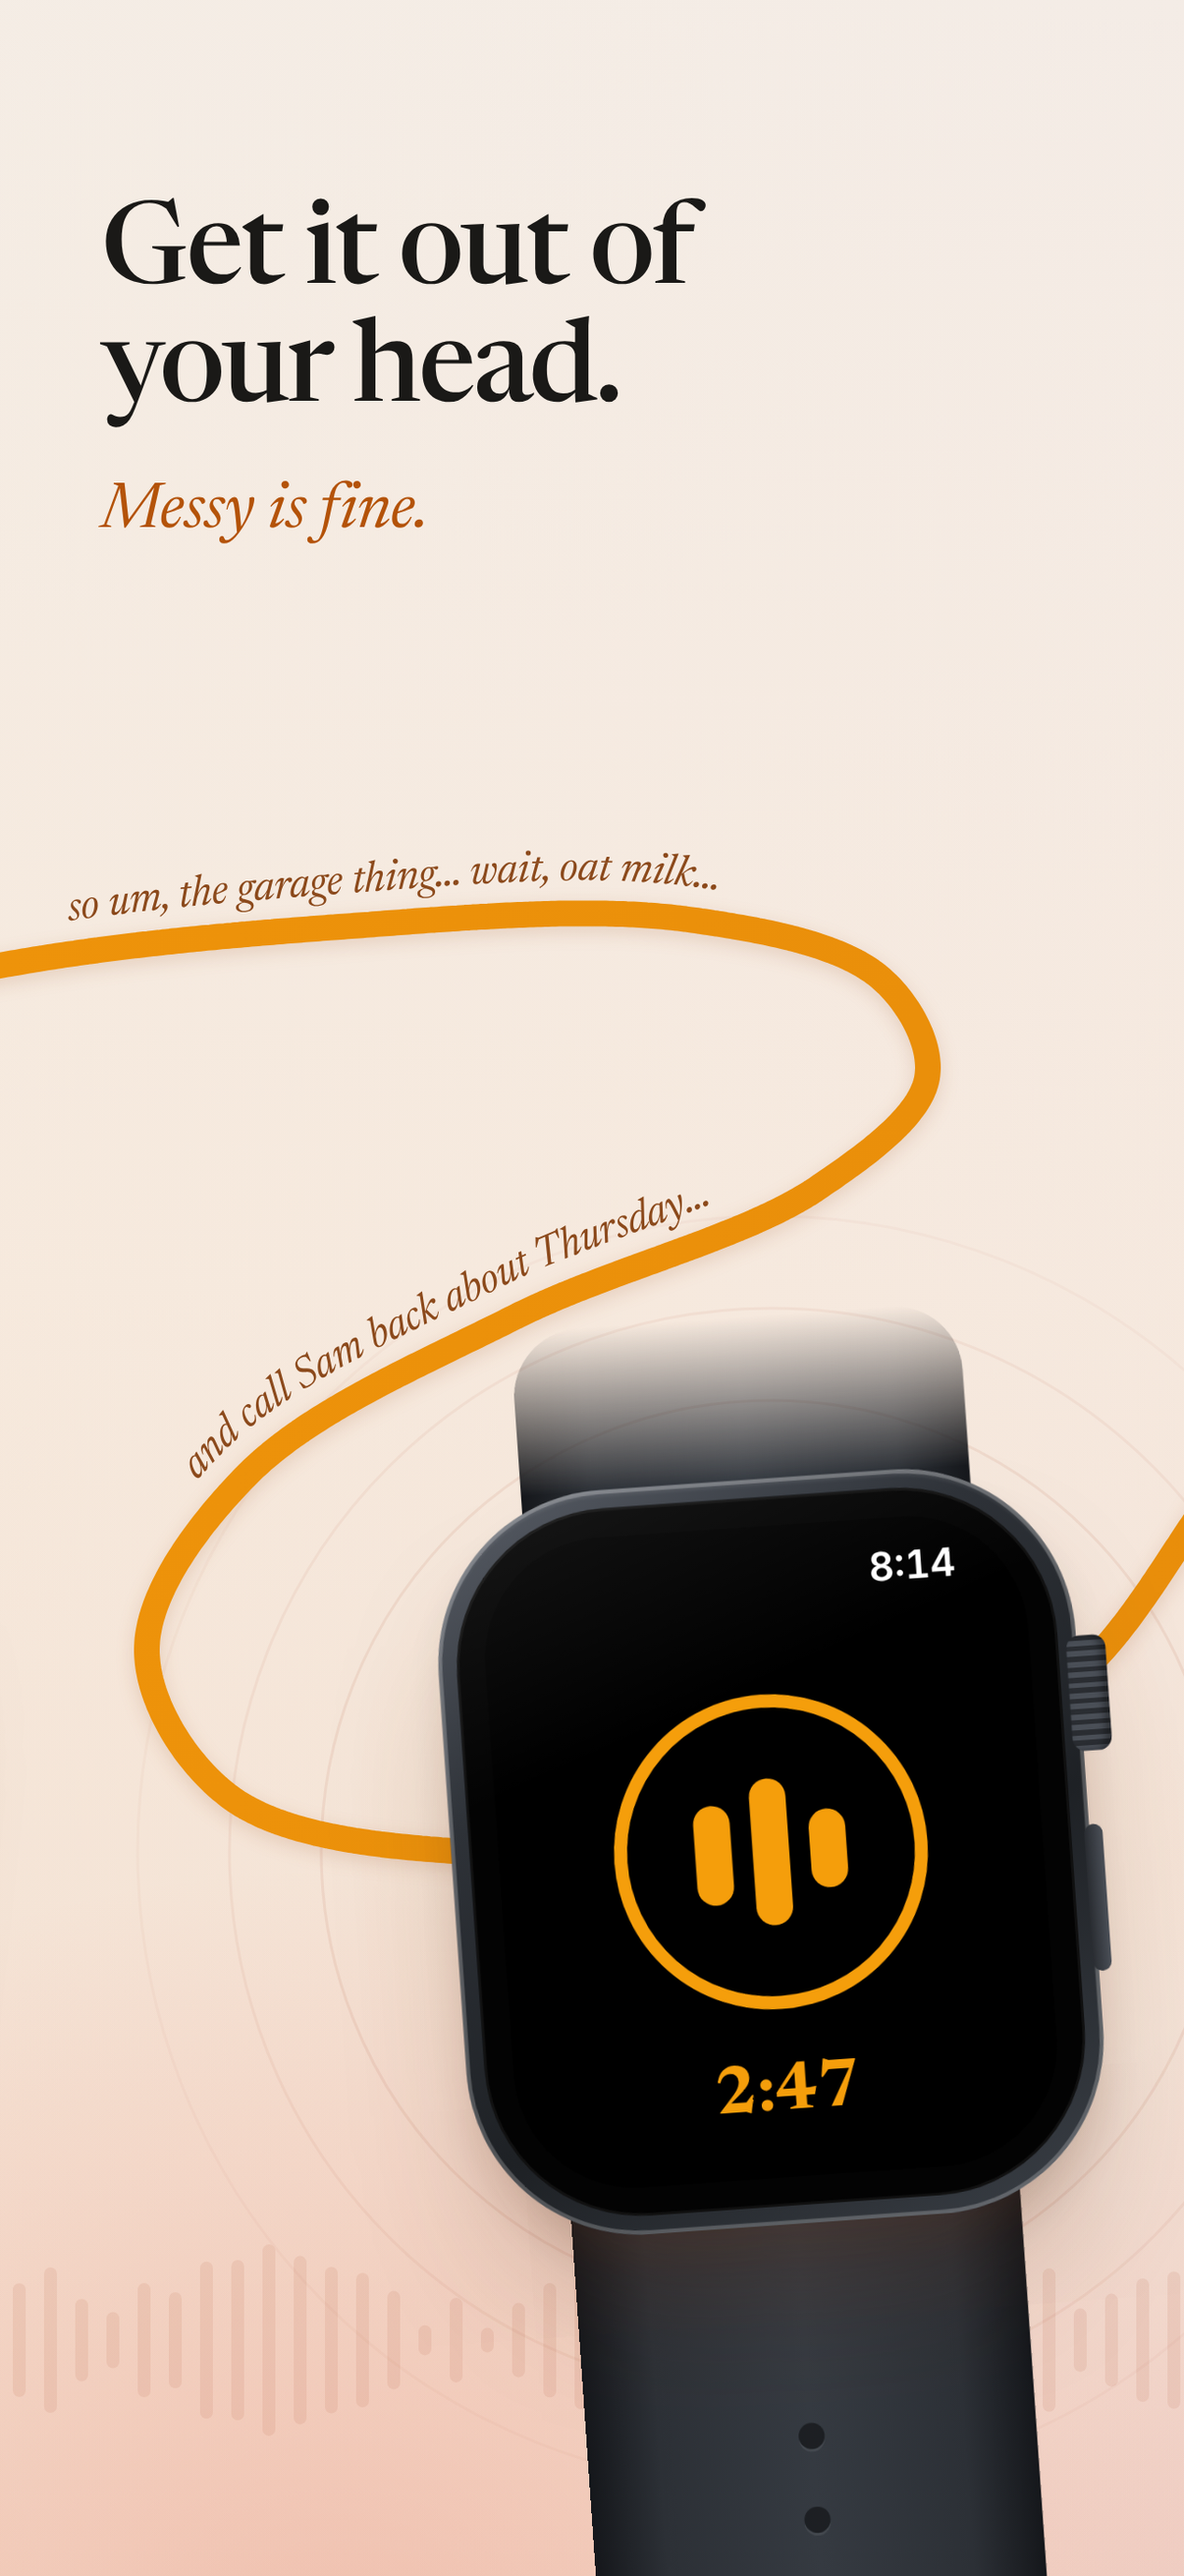
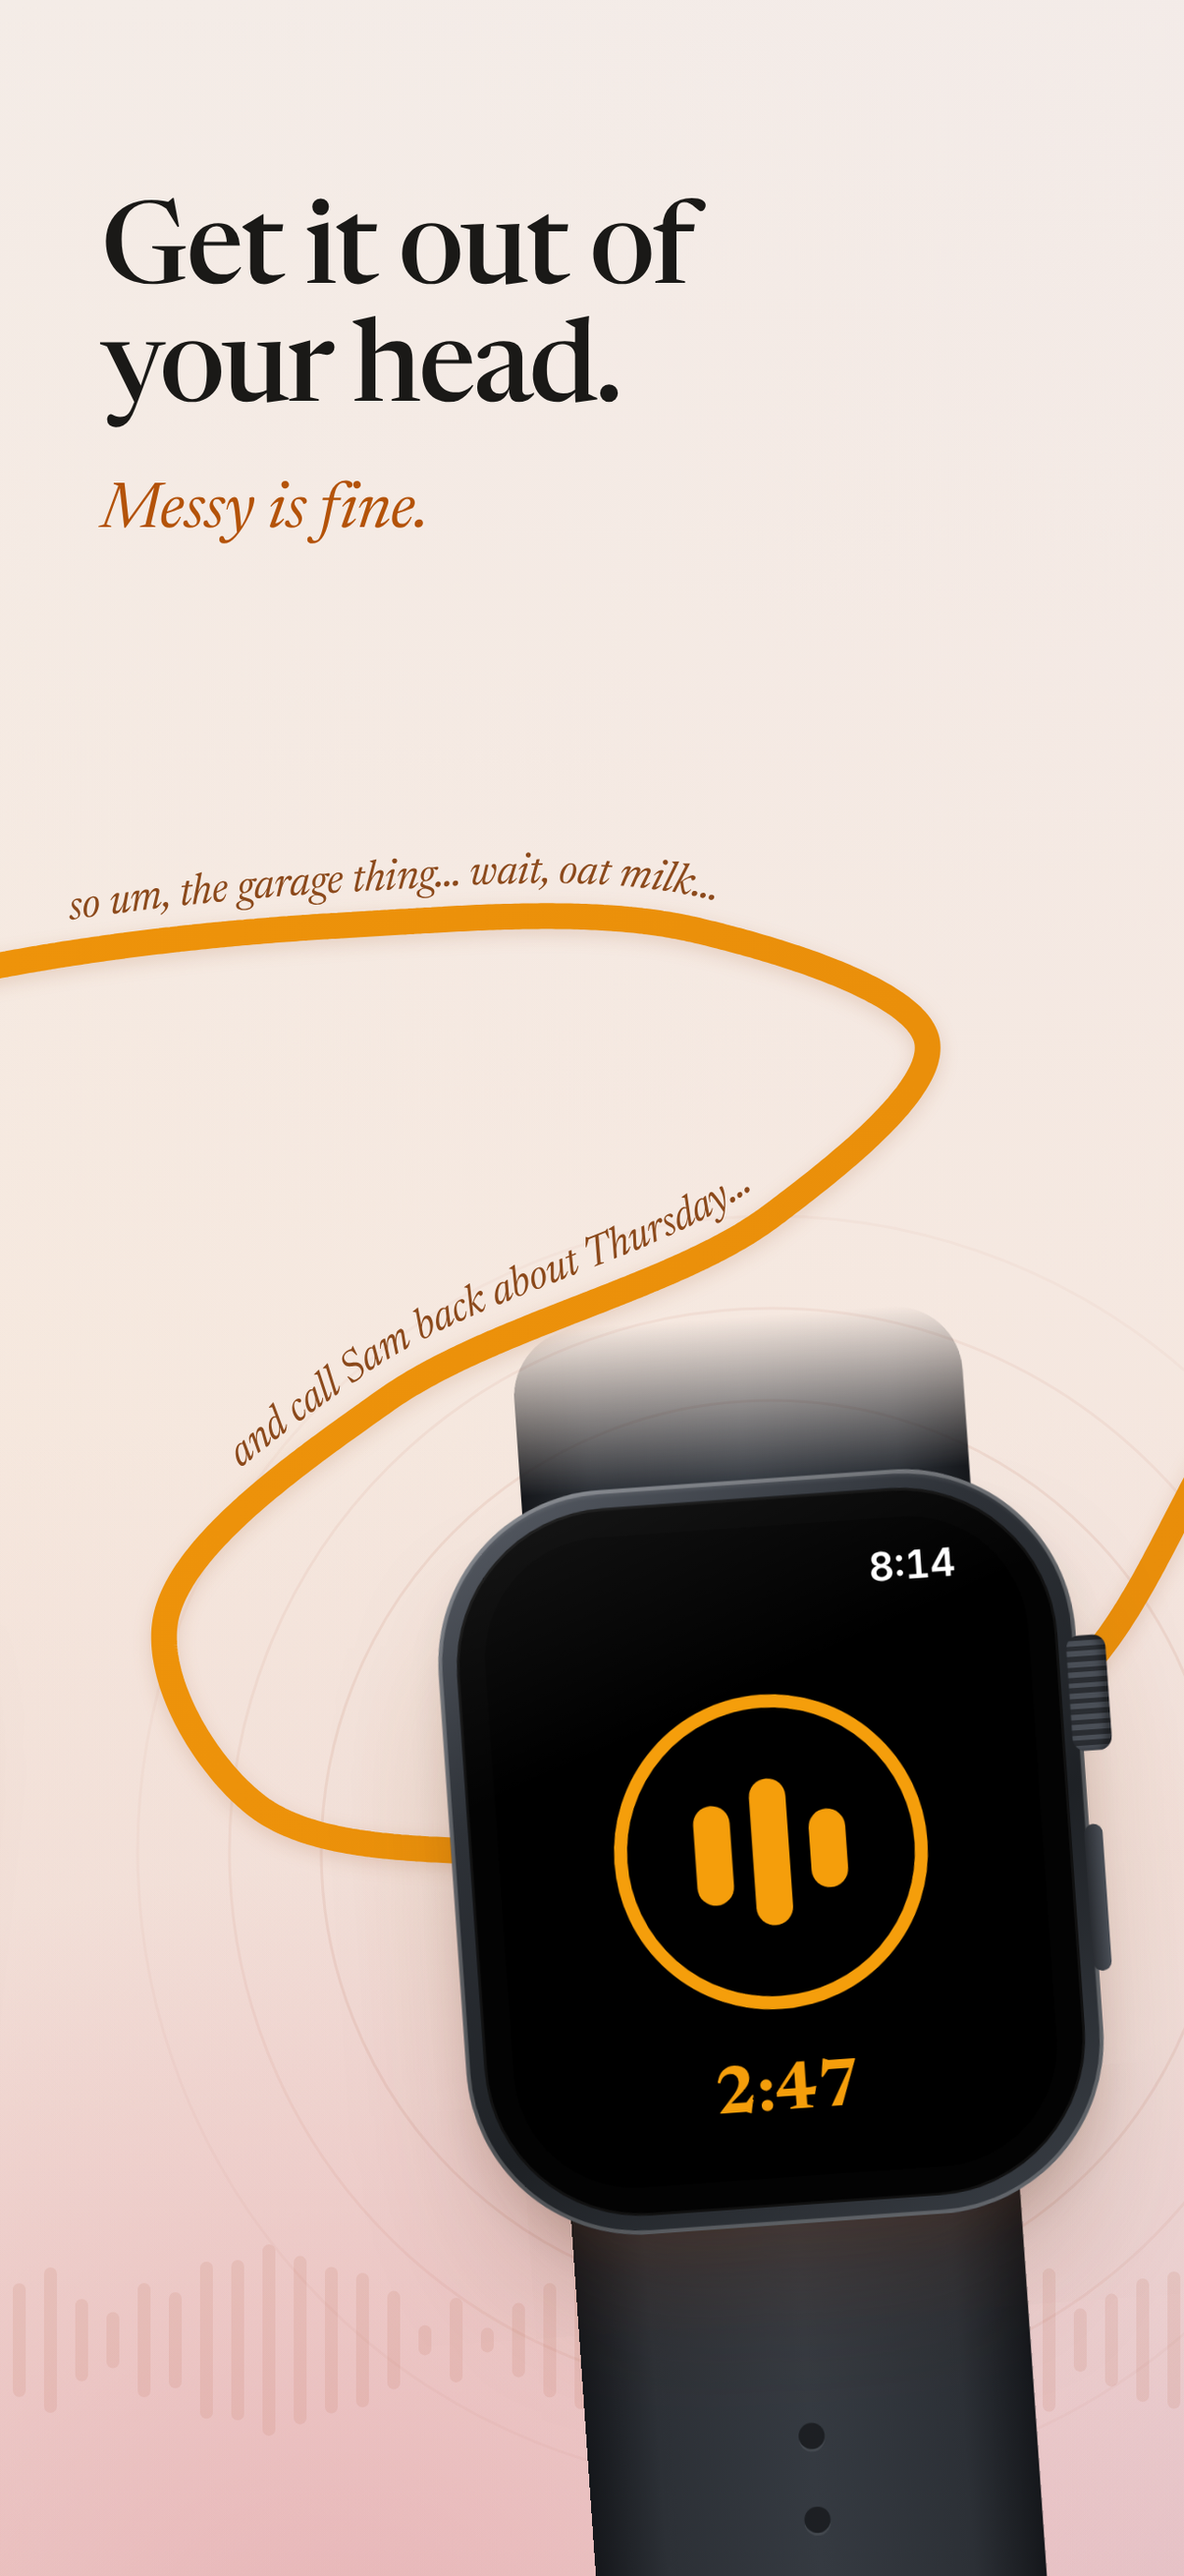
App Store screenshots: more purple at the bottom, smoother S-curve, lock behind frame 5, smaller frame 4 phone
Claude-Session: https://claude.ai/code/session_01TreUG6Gw8YWAnJM4u7RM4H

diff --git a/images/appstore/2026-sunset/source/one-line.html b/images/appstore/2026-sunset/source/one-line.html
@@ -174,12 +174,13 @@ body[data-bg="w"].dark .phone { box-shadow: 0 60px 100px -40px rgba(90,50,30,.45
 body[data-bg="w"].dark .phone.set { box-shadow: 0 50px 70px -30px rgba(90,50,30,.40), inset 0 0 0 1.5px rgba(255,255,255,.26); }
 body[data-bg="w"] #bg {
   background:
-    radial-gradient(1500px 1250px at 300px 2900px, rgba(244,150,70,.34) 0%, rgba(244,150,70,0) 70%),
-    radial-gradient(1500px 1250px at 1600px 2950px, rgba(242,130,70,.30) 0%, rgba(242,130,70,0) 70%),
-    radial-gradient(1500px 1250px at 2950px 2900px, rgba(232,110,86,.28) 0%, rgba(232,110,86,0) 70%),
-    radial-gradient(1500px 1250px at 4400px 2950px, rgba(214,100,112,.26) 0%, rgba(214,100,112,0) 70%),
-    radial-gradient(1500px 1250px at 5900px 2900px, rgba(160,88,146,.24) 0%, rgba(160,88,146,0) 70%),
-    linear-gradient(90deg, rgba(250,214,170,.18) 0%, rgba(246,196,170,.14) 50%, rgba(232,190,200,.16) 100%),
+    radial-gradient(1500px 1250px at 300px 2900px, rgba(244,146,80,.34) 0%, rgba(244,146,80,0) 70%),
+    radial-gradient(1500px 1250px at 1600px 2950px, rgba(236,122,92,.31) 0%, rgba(236,122,92,0) 70%),
+    radial-gradient(1500px 1250px at 2950px 2900px, rgba(218,104,122,.29) 0%, rgba(218,104,122,0) 70%),
+    radial-gradient(1500px 1250px at 4400px 2950px, rgba(188,96,146,.28) 0%, rgba(188,96,146,0) 70%),
+    radial-gradient(1500px 1250px at 5900px 2900px, rgba(146,88,170,.27) 0%, rgba(146,88,170,0) 70%),
+    linear-gradient(180deg, rgba(200,150,200,0) 55%, rgba(196,140,196,.12) 100%),
+    linear-gradient(90deg, rgba(250,210,176,.18) 0%, rgba(242,192,186,.14) 50%, rgba(226,188,214,.18) 100%),
     linear-gradient(180deg, #F4F3EF 0%, #F6EFE6 50%, #F3E3D6 100%);
 }
 
@@ -542,7 +543,10 @@ if (params.get('bg') === 'w') { LINE = 'flow'; FLAIR = 'o'; WAVE = { h: 260, op:
   // flow layout: frame 2's watch sits higher, frame 3's watch moves right so the hairpin curls into its side
   const devs = document.querySelectorAll('#pano > .dev');
   devs[2].style.top = '1960px';
-  devs[3].style.left = '3420px'; devs[3].style.top = '2010px'; }
+  devs[3].style.left = '3420px'; devs[3].style.top = '2010px';
+  // frame 4's phone a little smaller (its top stays put); frame 5's phone leans a little
+  const d4 = document.querySelector('.zoomwrap > .dev'); d4.style.setProperty('--s', 2.25); d4.style.top = (760 + 492 * 2.25) + 'px';
+  devs[devs.length - 1].style.setProperty('--r', '5deg'); devs[devs.length - 1].style.left = '5850px'; }
 if (params.has('debug')) document.body.classList.add('debug');
 
 // ?ipad=1: the phones become iPads (for the 13" iPad set, see ipad-render.js)
@@ -675,8 +679,8 @@ if (params.has('ipad')) NODES_T[10] = [4640, MSGY, 0, 420, 560];
 // watch, across the phone under the message, and level into the relay node.
 const FLOW = [
   [1112, 1806], [1380, 1600], [1720, 1385], [2110, 1190], [2520, 1060],       // F1-F2: rising, dotted until it reconnects
-  [2950, 1006], [3330,  998], [3540, 1062], [3590, 1170], [3470, 1290],       // F3: run A, the hairpin
-  [3140, 1430], [2850, 1600], [2740, 1790], [2830, 1950], [3090, 2010],       //     run B down to the left, round into the watch
+  [2960, 1004], [3340, 1010], [3590, 1130],                                   // F3: run A, one wide hairpin
+  [3420, 1320], [3000, 1520], [2760, 1760], [2860, 1960], [3110, 2010],       //     run B down to the left, round into the watch
   [3420, 1975], [3740, 1830], [3990, MSGY + 120], [4300, MSGY + 30], [4700, MSGY + 20], // F4: out by the crown, up into the message
   [5060, MSGY + 90], [5345, 1622],                                            // F5: easing down into the relay node
 ];
@@ -761,7 +765,7 @@ const sSolid = sAtX(2480), sNodeF = L;
   el('path', { d: thin, fill: 'none', 'stroke-width': 8, 'stroke-linecap': 'round' });
 }
 say('wA', sNear(2640, 1040), sNear(3380, 1004), 'so um, the garage thing… wait, oat milk…');
-const sB0f = sNear(3420, 1310, sNear(3590, 1170));
+const sB0f = sNear(3500, 1260, sNear(3590, 1130));
 say('wB', sB0f, sNear(2800, 1680, sB0f), 'and call Sam back about Thursday…');
 } else {
 // 1) F1: evenly spaced voice bars easing down into the line
@@ -816,7 +820,7 @@ function fitWords() {
   const rings = FLAIR === 'm' || FLAIR === 'o', wave = FLAIR === 'n' || FLAIR === 'o';
   if (rings) {
     // [cx, cy, first radius, step, count, opacity]
-    const DEV = WASH ? [[640, 1835, 580, 104, 3, .10], [2200, 1960, 420, 90, 2, .08], [3420, 2010, 490, 100, 3, .10], [4515, 1990, 720, 110, 2, .08], [5896, 2109, 580, 104, 2, .08]] : FLAIR === 'm'
+    const DEV = WASH ? [[640, 1835, 580, 104, 3, .10], [2200, 1960, 420, 90, 2, .08], [3420, 2010, 490, 100, 3, .10], [4515, 1990, 720, 110, 2, .08], [5850, 2109, 580, 104, 2, .08]] : FLAIR === 'm'
       ? [[640, 1835, 560, 92, 4, .16], [2200, 2100, 400, 80, 3, .14], [3300, 1860, 470, 88, 4, .16], [4515, 1990, 700, 96, 3, .12], [5896, 2109, 560, 92, 3, .12]]
       : [[640, 1835, 580, 104, 3, .13], [2200, 2100, 420, 90, 2, .11], [3300, 1860, 490, 100, 3, .13], [4515, 1990, 720, 110, 2, .10], [5896, 2109, 580, 104, 2, .10]];
     const cdefs = mk('defs', {});
@@ -836,6 +840,18 @@ function fitWords() {
     // small rings at the beats of the line: the reconnect point and the relay node
     for (const [x, y] of [[pR.x, pR.y], [pN.x, pN.y]]) for (const [r, op] of [[62, .30], [98, .16]])
       mk('circle', { cx: x, cy: y, r, fill: 'none', stroke: CREAM, 'stroke-width': 2.5, opacity: op });
+  }
+  if (WASH) {
+    // frame 5: a large, quiet lock behind the phone
+    const lx = 5600, ly = 1580;
+    const lg = mk('g', { opacity: .9 });
+    const ld = mk('defs', {}); ld.innerHTML = '<linearGradient id="lockg" x1="0" y1="0" x2="0" y2="1"><stop offset="0" stop-color="#F1B48A" stop-opacity=".55"/><stop offset="1" stop-color="#D98CA6" stop-opacity=".40"/></linearGradient>';
+    const sh = document.createElementNS(ns, 'path');
+    for (const [a, v] of Object.entries({ d: `M${lx - 230},${ly - 40} V${ly - 300} A230,230 0 0 1 ${lx + 230},${ly - 300} V${ly - 40}`, fill: 'none', stroke: 'url(#lockg)', 'stroke-width': 96, 'stroke-linecap': 'round' })) sh.setAttribute(a, v);
+    lg.appendChild(sh);
+    const bd = document.createElementNS(ns, 'rect');
+    for (const [a, v] of Object.entries({ x: lx - 380, y: ly - 60, width: 760, height: 620, rx: 110, fill: 'url(#lockg)' })) bd.setAttribute(a, v);
+    lg.appendChild(bd);
   }
   if (wave) {
     // a faint waveform of rounded level bars along the low horizon, quiet at the start, busiest in the ramble, fading out
